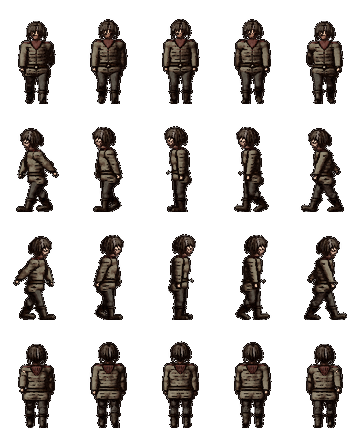
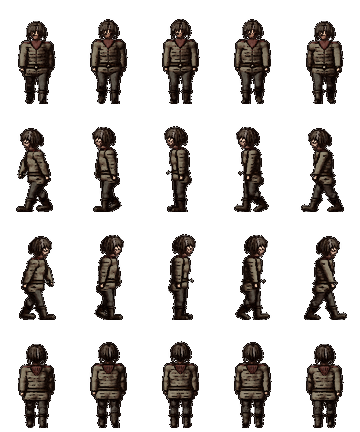
탐험가 걷기 뒤 팔 흔들림을 앞과 비슷하게(ARM_B -18 · FORE_B -4, AM42)
Claude-Session: https://claude.ai/code/session_012LdG8JyUMFwKDnqU5jz75N

diff --git a/docs/ASSUMPTIONS.md b/docs/ASSUMPTIONS.md
@@ -578,7 +578,7 @@
 | AM38 | **탐험가 시체 = 탐험가 맵 몸 그림을 눕힌 것**(사용자 2026-10-22 "탐험가 시체가 너무 인형처럼 생겼고 작음"): 도형(천 덩어리·막대)으로 그리던 시체를 `assets/actors/human.webp`의 옆모습 걸음 칸(다리를 벌린 자세)을 눕혀(−1.42rad) 핏기 없이 어둡게 칠하고, 번진 피 웅덩이 3겹·떨어진 칼·굴러 나온 등짐을 곁들였다(`Props._lying_body`). 크기 = 서 있는 탐험가 키(약 52px)와 같게 — 소품 시트 칸을 1.5 → 2.0칸 해상도로 올리고(`floor_art/Specs.gd PROPS size`, 다른 소품은 같은 크기로 더 선명하게) `feat_corpse` art.prop.size 1.5 → 1.9. 고정 지도의 탐험가 시체·갓 죽은 탐험가·쓰러진 약탈자 모두 이 타일 | 걷는 탐험가와 같은 그림이라 "사람"으로 읽힌다 | `tools/floor_art/Props.gd` corpse · `paint_floor.gd --only=props`(시트를 먼저 그린 뒤) |
 | AM40 | (사용자 2026-10-23 "아이템 그림을 우리 그림체로 전면 교체") **아이템 그림 = 몬스터 그림과 같은 칠 순서**(Clay 3D 덩어리 → Render 붓 칠·적갈색 그늘·잉크·빗금 → Finish 때·색 보정)로 아이템마다 한 장(`tools/paint_items.gd` → `assets/items/<id>.webp`, 359장 약 2분). 캔버스 = 가방 칸 × 80px(가방 칸 38px의 약 2배), 세로 무기는 손잡이 아래·끝 위. 공식 장비는 소재 색·종류·등급으로 칠한다 — 쇠는 밝을수록 번들(어두운 아다만티움이 쇠 반사에 묻히지 않게 `spec` = 0.15 + 0.55 × 밝기), 3단계 이상 날밑·테는 장식 금속(황동빛), 4단계 이상 자루 끝 보석, 5~6단계 은은한 빛, 1단계 날은 이 빠진 자국. 게임은 그림이 있으면 그것을, 없으면 옛 도형(`ItemIconPainter`) | 아이템만 평면 도형이라 다른 그림과 따로 놀았다. 모양은 이름·종류에서(원작 묘사 없음) | 설계 `tools/item_art/`(ItemArt·Frame·Blades·Hafts·Wear·Wear2·Goods), 그린 뒤 `--import` |
 | AM41 | (사용자 2026-10-23 "손잡이·날 모양이 다 비슷해 이름을 보기 전엔 구분이 안 된다 — 소재별로 자연스러운 특징을") **소재마다 생김새**(`tools/item_art/Style.gd`): 금속 = 날 폭·날끝·날·날밑·자루 끝·손잡이·표면 — 강철 투박한 이 빠진 날·가죽 감개, 라이티늄(가볍다) 가늘고 구멍 뚫린 날·흰 천 감개·얇은 날밑, 아이릴제(미스릴+강철 합금) 물결 단조 무늬·뒤로 젖힌 날개 날밑·고리 자루 끝·쇠줄 감개, 아이디움 넓고 검게 두드린 날(망치 자국), 월광석 초승달 날밑·자루 끝·초승달 무늬·창백한 빛, 오리하르콘(마력이 통함) 잎 모양 날·금빛 새긴 글자가 주황으로 빛남·소용돌이 날밑·보석, 미스릴 잎 날·푸른 빛 핏줄 무늬, 아다만티움(무겁다) 아주 넓고 비스듬히 잘린 날·덩어리 날밑·쇠띠, 미스티움(왕가) 금실 무늬·금테·보석, 아크(용살·마법 카운터) 용 비늘·톱니 날·발톱 날밑·푸른 빛. 도끼·미늘창 머리(보통·턱 긴·반달·양날), 철퇴 머리(날개·가시·각진·금장식)도 소재에서. 가죽·천·목재·뼈·보석은 표면·둘레 장식 — 와이번·드레이크 비늘, 트롤 혹·덧댐, 오우거 덧댐·징, 고룡 비늘·가시, 거미 비단 거미줄, 서리 양모 털, 월광 비단 초승달, 정령 비단 빛 핏줄, 세계수 잎·빛 잎맥, 보르탈 빛나는 옹이, 아르테네목 감은 밧줄, 짐승 뼈 갈라짐·끈, 보석 모양(수정 육각 기둥·호박 속 벌레·비취 매끈한 알·흑요석 조각·블루스톤 물방울), 금속 반지 = 인장 반지 | 원작 설정(가볍다·무겁다·용살·마력)에서 고르고, 원작에 없는 것은 이름에서 | `Style.BY_MATERIAL`(소재 한 줄), 부품 `Hilt.gd`(손잡이·날밑·자루 끝)·`Surface.gd`(무늬·장식) |
-| AM42 | **탐험가 맵 그림 옷차림 고르기**(사용자 2026-10-26 "거지 복장 같고 촌스럽다 · 머리가 크다 · 인간은 팔을 앞으로만 흔든다 · 걷는 모습은 그대로 · 망토도 괜찮다 — 여러 개 그려 봐"): 걸음(AM31)은 그대로 두고 옷·머리 비율만 바꾸는 후보 9종(`tools/monster_art/MapLooks.gd` — 인간 h0 깔끔한 여행복·h1 방랑 망토·h2 두건 쓴 망토·h3 탐험가 외투·h4 누빔 갑옷·h5 사슬 갑옷, 바바리안 b0 머리만 작게·b1 털 망토·b2 가죽 갑옷), 비교 그림 `docs/screens/map_looks.png`. 머리 인간 2.2 → 1.75·다리 0.75 → 0.82, 바바리안 2.5 → 2.1·0.68 → 0.72. 겉옷은 새 부품 `BackCloak`(망토 = 목 → 어깨를 둥글게 덮고 단으로 퍼지는 3D 사슬 원뿔을 단 높이에서 자름 — 다리가 보여야 걸음이 산다, 앞모습은 가운데 V로 트임 / 쓴 두건 / 무릎 외투 / 누빔 / 사슬). 팔: 앞으로 간 팔 위팔 +8° → +20°·아래팔 그대로 +13° → +19°로(뒤로 간 팔 −38°·−31° 그대로) — 걸음 칸마다 한 손은 앞·한 손은 뒤로 보인다. 처음 기본은 망토(h1·b1)였고, **사용자가 고른 것(2026-10-26 "h4 b2로 교체하되 h3도 저장해 줘 — 나중에 NPC로 · 전투 화면의 아군 뒷모습도 이에 맞게") = 인간 h4 누빔 갑옷 · 바바리안 b2 가죽 갑옷**(`MapLooks.CHOSEN`). **전투 뒷모습·옆모습(`assets/party/<종족>_back/_side`)도 같은 옷**(`Party.spec_of`가 CHOSEN을 덮는다). h3 외투는 `MapLooks.KEEP` → `assets/actors/looks/h3_coat.webp`(게임은 아직 안 쓴다 — NPC 탐험가용). b2 외투는 엉덩이까지(`len` 0.08): 허벅지 중간(0.3)이면 다리 사이 둥근 자락이 전투 그림에서 크게 부풀고, 자락을 빼면 외투가 엉덩이에 달라붙었다 — 외투 `len` < 0.45면 다리 사이 자락을 그리지 않는다. 선 자세 팔(사용자 2026-10-26 "좀비 같다")은 `down`(몸 옆으로 곧게 — `paint_actors.gd EXPLORER_ARMS`, 탐험가만). 부위별 갑옷 겹 그림은 해 봤다가 되돌렸다(사용자 "없던 걸로") | 사용자 요청 | 고른 옷차림: `MapLooks.CHOSEN`(종족 → id) → `godot --headless --path . --script res://tools/paint_actors.gd -- --only=human,barbarian`(KEEP도 같이) + `paint_monsters.gd -- --only=human_back,human_side,barbarian_back,barbarian_side`. 후보 다시 보기 `paint_actors.gd -- --look=<id,id> --out=<폴더>`. 새 후보 = `MapLooks.LOOKS` 한 항목 |
+| AM42 | **탐험가 맵 그림 옷차림 고르기**(사용자 2026-10-26 "거지 복장 같고 촌스럽다 · 머리가 크다 · 인간은 팔을 앞으로만 흔든다 · 걷는 모습은 그대로 · 망토도 괜찮다 — 여러 개 그려 봐"): 걸음(AM31)은 그대로 두고 옷·머리 비율만 바꾸는 후보 9종(`tools/monster_art/MapLooks.gd` — 인간 h0 깔끔한 여행복·h1 방랑 망토·h2 두건 쓴 망토·h3 탐험가 외투·h4 누빔 갑옷·h5 사슬 갑옷, 바바리안 b0 머리만 작게·b1 털 망토·b2 가죽 갑옷), 비교 그림 `docs/screens/map_looks.png`. 머리 인간 2.2 → 1.75·다리 0.75 → 0.82, 바바리안 2.5 → 2.1·0.68 → 0.72. 겉옷은 새 부품 `BackCloak`(망토 = 목 → 어깨를 둥글게 덮고 단으로 퍼지는 3D 사슬 원뿔을 단 높이에서 자름 — 다리가 보여야 걸음이 산다, 앞모습은 가운데 V로 트임 / 쓴 두건 / 무릎 외투 / 누빔 / 사슬). 팔: 앞으로 간 팔 위팔 +8° → +20°·아래팔 그대로 +13° → +19°로(뒤로 간 팔 −38°·−31° 그대로) — 걸음 칸마다 한 손은 앞·한 손은 뒤로 보인다. 처음 기본은 망토(h1·b1)였고, **사용자가 고른 것(2026-10-26 "h4 b2로 교체하되 h3도 저장해 줘 — 나중에 NPC로 · 전투 화면의 아군 뒷모습도 이에 맞게") = 인간 h4 누빔 갑옷 · 바바리안 b2 가죽 갑옷**(`MapLooks.CHOSEN`). **전투 뒷모습·옆모습(`assets/party/<종족>_back/_side`)도 같은 옷**(`Party.spec_of`가 CHOSEN을 덮는다). h3 외투는 `MapLooks.KEEP` → `assets/actors/looks/h3_coat.webp`(게임은 아직 안 쓴다 — NPC 탐험가용). b2 외투는 엉덩이까지(`len` 0.08): 허벅지 중간(0.3)이면 다리 사이 둥근 자락이 전투 그림에서 크게 부풀고, 자락을 빼면 외투가 엉덩이에 달라붙었다 — 외투 `len` < 0.45면 다리 사이 자락을 그리지 않는다. 선 자세 팔(사용자 2026-10-26 "좀비 같다")은 `down`(몸 옆으로 곧게 — `paint_actors.gd EXPLORER_ARMS`, 탐험가만), 뒤로 흔드는 팔은 앞과 비슷하게(`ARM_B` −18 · `FORE_B` −4 — "너무 뒤로 흔든다"). 부위별 갑옷 겹 그림은 해 봤다가 되돌렸다(사용자 "없던 걸로") | 사용자 요청 | 고른 옷차림: `MapLooks.CHOSEN`(종족 → id) → `godot --headless --path . --script res://tools/paint_actors.gd -- --only=human,barbarian`(KEEP도 같이) + `paint_monsters.gd -- --only=human_back,human_side,barbarian_back,barbarian_side`. 후보 다시 보기 `paint_actors.gd -- --look=<id,id> --out=<폴더>`. 새 후보 = `MapLooks.LOOKS` 한 항목 |
 | AM13 | 입자는 CPUParticles2D(웹 호환), 플레이어를 따라가며 시야 반경 안에서만 생기고 월드에 남는다(걸어도 끌려가지 않음). 그림은 둥근 점(그러데이션 16px) — 손그림 입자는 A2 이후 | 지시서 §3.3·§7 | `AmbientParticles` |
 
 ## 1층 채우기 — 다른 탐험가·약탈자·밀도 (2026-10-21, 사용자 "abcdf 하고 싶은데 1층에도 약탈자가 있음" — `docs/plans/floor1_fill.md` A·B·C·D·F)

diff --git a/docs/archive/PROGRESS_LOG.md b/docs/archive/PROGRESS_LOG.md
@@ -6,6 +6,8 @@
 
 ## 작업 기록 (2026-10-20 이후 — 위가 최신)
 
+- **탐험가 걷기 뒤 팔 흔들림 절반 (2026-10-26, 사용자 "옆에서 봤을 때 팔을 너무 뒤로 흔드는데 앞 흔드는 각도 정도로 — 좌에서 2번 정도가 최대가 되게")** — AM42. `paint_actors.gd` `ARM_B` −34 → −18 · `FORE_B` −10 → −4(팔을 곧게 내린 선 자세 기준 — 걸음 칸의 뒤 팔이 전의 반걸음 칸 정도, 위팔 −18°·아래팔 약 −20°로 앞 팔 +24°·+20°와 비슷). 인간·바바리안·h3 시트 다시 그림.
+
 - **탐험가 선 자세 팔 곧게 · 갑옷 겹 되돌림 (2026-10-26, 사용자 "가만히 있을 때 팔을 완전히 아래로 내리면 안 됨? 좀비마냥 살짝 앞에 있잖어" → "그냥 갑옷 전부 제거해 없던 걸로")** — AM42.
   - 팔: 맵 탐험가의 기본 팔 자세가 `slump`(팔꿈치를 굽혀 손이 허벅지 앞)였다 → 새 자세 `down`(`Back.skeleton` — 위팔·아래팔 거의 수직, 몸 옆), `paint_actors.gd EXPLORER_ARMS` = 2(탐험가만 — 몬스터 사람형은 `ARMS` 그대로 slump). 걷기 흔들림 값(ARM_F·ARM_B …)은 그대로라 앞 팔은 덜 앞으로, 뒤 팔은 더 뒤로 간다. 인간·바바리안·h3 시트 다시 그림.
   - 갑옷 겹 그림(장비에 따라 부위별 겹을 얹던 것 — 커밋 39fc97d·51fa0cc)은 사용자 요청으로 전부 revert(코드·데이터·그림·테스트·문서). 다시 하려면 그 커밋을 참고.

diff --git a/docs/PROGRESS.md b/docs/PROGRESS.md
@@ -45,6 +45,7 @@
 
 ## 3. 최근 작업 (위가 최신 — 자세한 것은 PROGRESS_LOG에서 제목으로 검색)
 
+- 2026-10-26 **탐험가 걷기 뒤 팔 흔들림 절반**(AM42, 사용자 "옆에서 너무 뒤로 흔든다"): `ARM_B` −34 → −18 · `FORE_B` −10 → −4.
 - 2026-10-26 **탐험가 맵 그림 선 자세 팔을 곧게 내림**(AM42, 사용자 "좀비 같다"): 팔 자세 `down`(탐험가만). 갑옷 겹 그림은 해 봤다가 사용자 요청으로 모두 되돌림(커밋 revert).
 - 2026-10-26 **탐험가 옷차림 = 인간 누빔 갑옷(h4) · 바바리안 가죽 갑옷(b2)**(AM42, 사용자): 맵 걷기 그림과 전투 뒷모습·옆모습 모두, h3 외투는 NPC용으로 `assets/actors/looks/h3_coat.webp`(`MapLooks.CHOSEN`·`KEEP`).
 - 2026-10-26 **탐험가 맵 그림 옷차림 9종 · 기본 = 망토**(AM42): 걸음 그대로, 머리 작게·팔 앞뒤로, 인간 h1 방랑 망토·바바리안 b1 털 망토(후보 `docs/screens/map_looks.png`, 바꾸기 `paint_actors.gd LOOK`).
